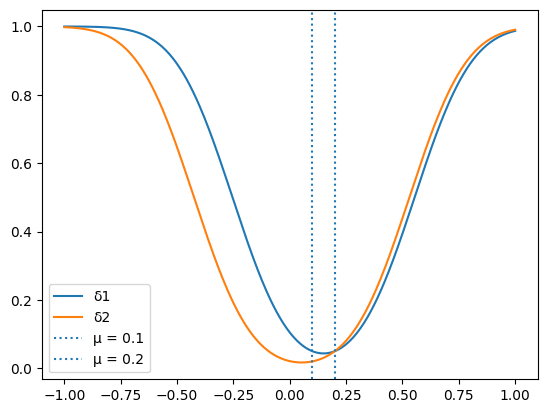
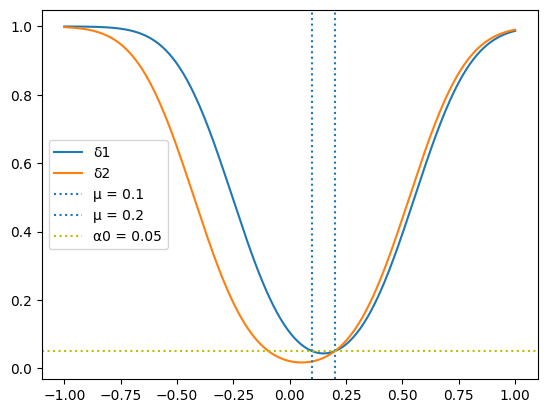
v2

diff --git a/post/2024/04/14-probability-and-statistics-40.md b/post/2024/04/14-probability-and-statistics-40.md
@@ -2,7 +2,7 @@
 
 今天是读《概率统计》的逻辑第 40 天。
 
-这几节看下来，似乎 $\delta$ 才是假设检验的核心。除了第一节海量概念，第二节找让 $\alpha(\delta), \beta(\delta)$ 最小的 $\delta$，第三节找 UMP $\delta$，这节还是找 $\delta$，形式变为：如果 $T \le c_1$ 或 $T \ge c_2$ 拒绝 $H_0: \mu_1 \le \mu \le \mu_2$。
+这几节看下来，似乎 $\delta$ 才是假设检验的重点。除了第一节介绍海量概念，第二节找 $\delta$，第三节找 $\delta$，这节还是找 $\delta$。$\delta$ 形式：如果 $T \le c_1$ 或 $T \ge c_2$ 拒绝 $H_0: \mu_1 \le \mu \le \mu_2$。
 
 因为是区间，c 也不再只有一个，从解方程改为解方程组
 
@@ -28,27 +28,32 @@ $$
 
 $$
 \begin{aligned}
-\pi(0.1|\delta) &= P(\overline{X}_n \le c_1|\mu=0.1) + P(\overline{X}_n \ge c_2|\mu = 0.1) \\
-&= \Phi[\sqrt{n}(c_1 - 0.1)] + \Phi[- \sqrt{n}(c_2 - 0.1)]
+\pi(0.1|\delta) &= P(\overline{X}_n \le c_1|\mu=0.1) \\
+&\ \ \ \ + P(\overline{X}_n \ge c_2|\mu = 0.1) \\
+&= \Phi[\sqrt{n}(c_1 - 0.1)] \\
+&\ \ \ \ + \Phi[- \sqrt{n}(c_2 - 0.1)]
 \end{aligned}
 $$
 
 $$
 \begin{aligned}
-\pi(0.2|\delta) &= P(\overline{X}_n \le c_1|\mu=0.2) + P(\overline{X}_n \ge c_2|\mu = 0.2) \\
-&= \Phi[\sqrt{n}(c_1 - 0.2)] + \Phi[- \sqrt{n}(c_2 - 0.2)]
+\pi(0.2|\delta) &= P(\overline{X}_n \le c_1|\mu=0.2) \\
+&\ \ \ \ + P(\overline{X}_n \ge c_2|\mu = 0.2) \\
+&= \Phi[\sqrt{n}(c_1 - 0.2)] \\
+&\ \ \ \ + \Phi[- \sqrt{n}(c_2 - 0.2)]
 \end{aligned}
 $$
 
 理论上有无限种 $c_1, c_2$ 可选，和 $\alpha_1, \alpha_2$ 取值有关。
 
-如果取 $\alpha_1 = \alpha_2 = 0.05$ 那么 $c_1, c_2$ 以 $\mu = 0.15$ 对称
-
-$c_1 = 0.15 - c$, $c_2 = 0.15 + c$
+如果取 $\alpha_1 = \alpha_2 = 0.05$ 那么 $c_1 = 0.15 - c$，$c_2 = 0.15 + c$
 
 解方程 $\Phi[5(0.05 - c)] + \Phi[-5(0.05 + c)] = 0.05$
 
 ```
+from scipy import optimize
+from scipy.stats import norm
+
 rv = norm()
 
 def f(c):
@@ -57,14 +62,14 @@ def f(c):
 def g(c):
     return f(c) - 0.05
 
-y = g(x)
-
 optimize.newton(g, 0.4)
 ```
 
-先对 g(c) 作图，看到 g(c) = 0 大概在 0.4 附近，初始猜测 0.4，牛顿法会迭代计算最接近 g(c) = 0 的 c = 0.4039。
+先对 $g(c)$ 作图，看到 $g(c) = 0$ 大概在 0.4 附近，初始猜测 0.4，牛顿法会迭代计算最接近 $c = 0.4039$。
 
-$\delta_1$：if [-0.253942569471306, 0.5539425694713059] 拒绝 $H_0$
+$\delta_1$：如果 $\overline{X}_n \le -0.2539$ 或 $\overline{X}_n \ge 0.5539$ 拒绝 $H_0$
+
+----
 
 如果 $\alpha_1 = 0.02, \alpha_2 = 0.05$ 显著性等级也是 $0.05$，算起来麻烦点，解方程组
 
@@ -78,6 +83,9 @@ $$
 方程①变换得到 $c_2 = 0.1 - 0.2 * \Phi^{-1}[0.02-\Phi(5(c_1 - 0.1))]$ 代入方程②解 $c_1$ 的方程。
 
 ```
+from scipy import optimize
+from scipy.stats import norm
+
 rv = norm()
 
 def _c2(c1):
@@ -90,29 +98,31 @@ def f(c1):
 def g(c1):
     return f(c1) - 0.05
 
-optimize.newton(g, -0.5)
+c1 = optimize.newton(g, -0.5)
+print([c1, _c2(c1)])
 ```
 
-用牛顿法解出 $c_1 = -0.2539$, $c_2=0.5539$
+用牛顿法解出 $c_1 = -0.4245$, $c_2=0.5307$
 
-$\delta_2$：if [-0.4244956667349156, 0.5307221304354623] 拒绝 $H_0$
+$\delta_2$：如果 $\overline{X}_n \le -0.4245$ 或 $\overline{X}_n \ge 0.5307$ 拒绝 $H_0$
 
 最后把 $\delta_1$, $\delta_2$ 都画在图上
 
 ```
-n = 25
-sigma = 1
-sigma_n = sigma / np.power(n, 0.5)
+import numpy as np
+import matplotlib.pyplot as plt
+from scipy.stats import norm
 
+sigma_n = 0.2
 mu = np.linspace(-1, 1, 400)
 
 def f1(mu):
-    c1, c2 = [-0.253942569471306, 0.5539425694713059]
+    c1, c2 = [-0.2539, 0.5539]
     rv = norm(loc=mu, scale=sigma_n)
     return rv.cdf(c1) + 1 - rv.cdf(c2)
 
 def f2(mu):
-    c1, c2 = [-0.4244956667349156, 0.5307221304354623]
+    c1, c2 = [-0.4245, 0.5307]
     rv = norm(loc=mu, scale=sigma_n)
     return rv.cdf(c1) + 1 - rv.cdf(c2)
 
@@ -122,10 +132,13 @@ plt.plot(mu, y1, label='δ1')
 plt.plot(mu, y2, label='δ2')
 plt.axvline(x=0.1, linestyle=':', label='μ = 0.1')
 plt.axvline(x=0.2, linestyle=':', label='μ = 0.2')
+plt.axhline(y=0.05, color='y', linestyle=':', label='α0 = 0.05')
 plt.legend()
 plt.show()
 ```
 
-![](./14-40-1.png)
+![](https://files.mdnice.com/user/18103/01c3c1ff-d5b0-4410-ab41-8483143708b2.png)
+
+可以看到 $\delta_1$ 比较板正，$\delta_2$ 有一点点歪。
 
 封面图：Twitter 心臓弱眞君 @xinzoruo
